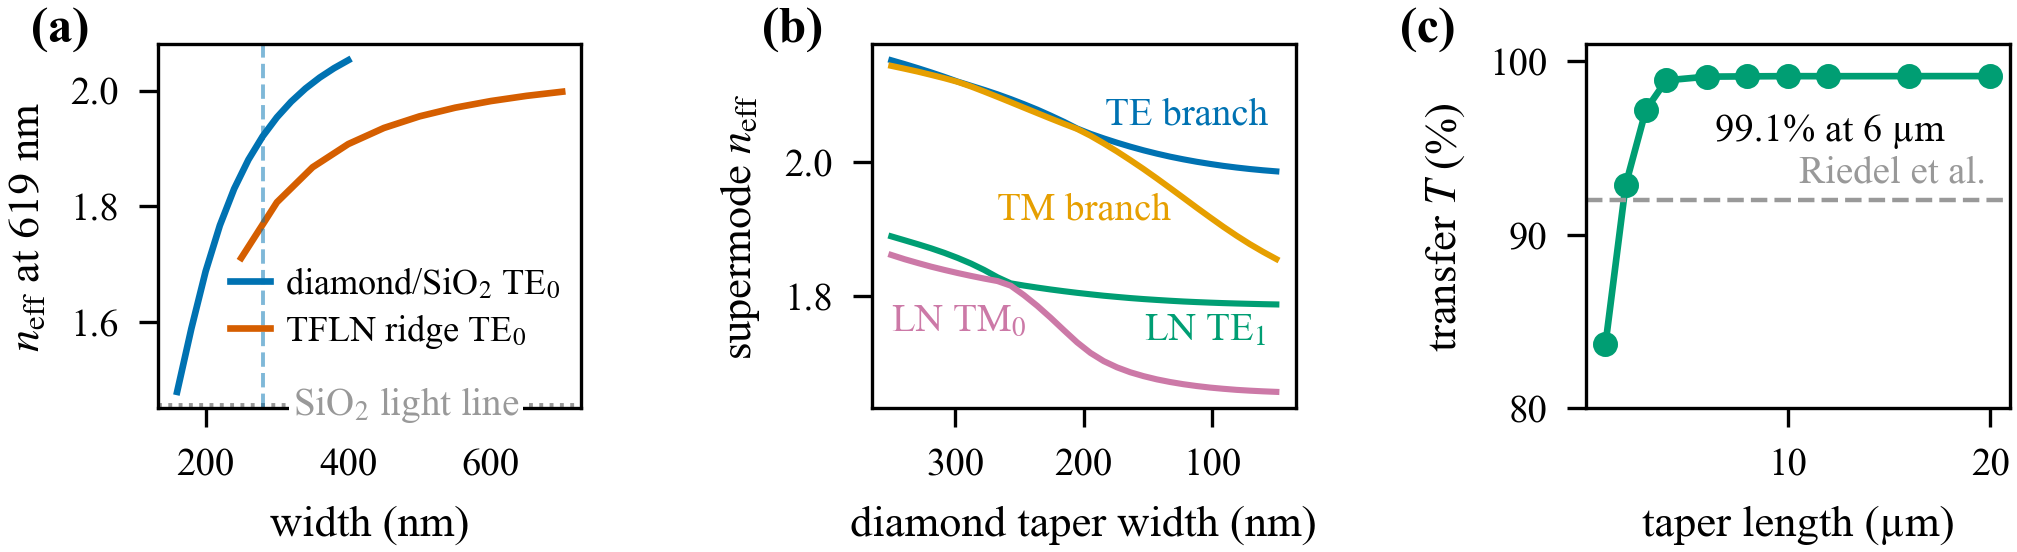
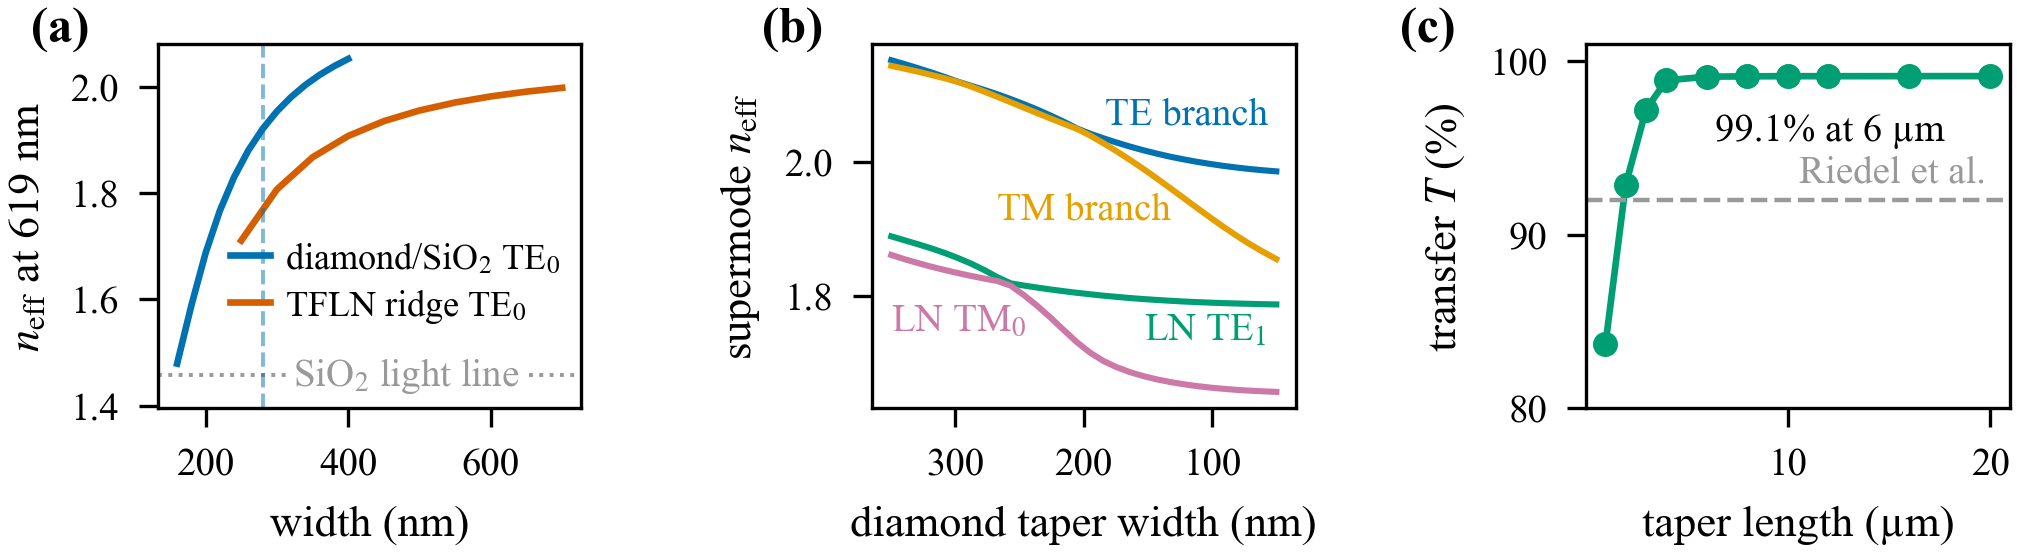
Fig. 2(a) light-line clearance; Fig. 4(a) compact see-(b) label
Extends the fig. 2(a) y-axis below the SiO2 light line so the line label clears the bottom spine (legend raised to match), and replaces the fig. 4(a) two-line annotation with a compact "see (b)" beside the marker; the out-of-plane explanation now lives in the manuscript caption.

diff --git a/figures/make_figures.py b/figures/make_figures.py
@@ -75,11 +75,12 @@ def fig2():
     ax.text(640, 1.4574, "SiO$_2$ light line", color=OI["grey"], fontsize=7,
             ha="right", va="center",
             bbox=dict(boxstyle="square,pad=0.10", fc="white", ec="none"))
+    ax.set_ylim(bottom=1.395)
     ax.axvline(280, color=OI["blue"], lw=0.7, ls="--", alpha=0.5)
     ax.axvline(600 * 0.66, color="none")
     ax.set_xlabel("width (nm)")
     ax.set_ylabel("$n_\\mathrm{eff}$ at 619 nm")
-    ax.legend(loc="lower right", bbox_to_anchor=(1.0, 0.10),
+    ax.legend(loc="lower right", bbox_to_anchor=(1.0, 0.17),
               fontsize=6.5, handlelength=1.1, handletextpad=0.4,
               borderaxespad=0.2, labelspacing=0.3)
     panel_label(ax, "(a)", dx=-0.30, dy=1.10)
@@ -210,9 +211,7 @@ def fig4():
     ax.errorbar([53], [8.6], yerr=[0.4], fmt="o", color=OI["vermilion"], ms=4,
                 capsize=2)
     ax.text(30, 700, "model", color=OI["blue"], fontsize=7, ha="left")
-    ax.text(185, 300, "out-of-plane\nalignment, see (b)", fontsize=6.5)
-    ax.annotate("", xy=(152, 1700), xytext=(179, 800),
-                arrowprops=dict(arrowstyle="->", lw=0.6))
+    ax.text(172, 2244, "see (b)", fontsize=6.5, va="center")
     ax.set_ylim(3.5, 8e3)
     ax.set_xlabel("field angle $\\zeta$ (deg)")
     ax.set_ylabel("cyclicity $\\Lambda$")
